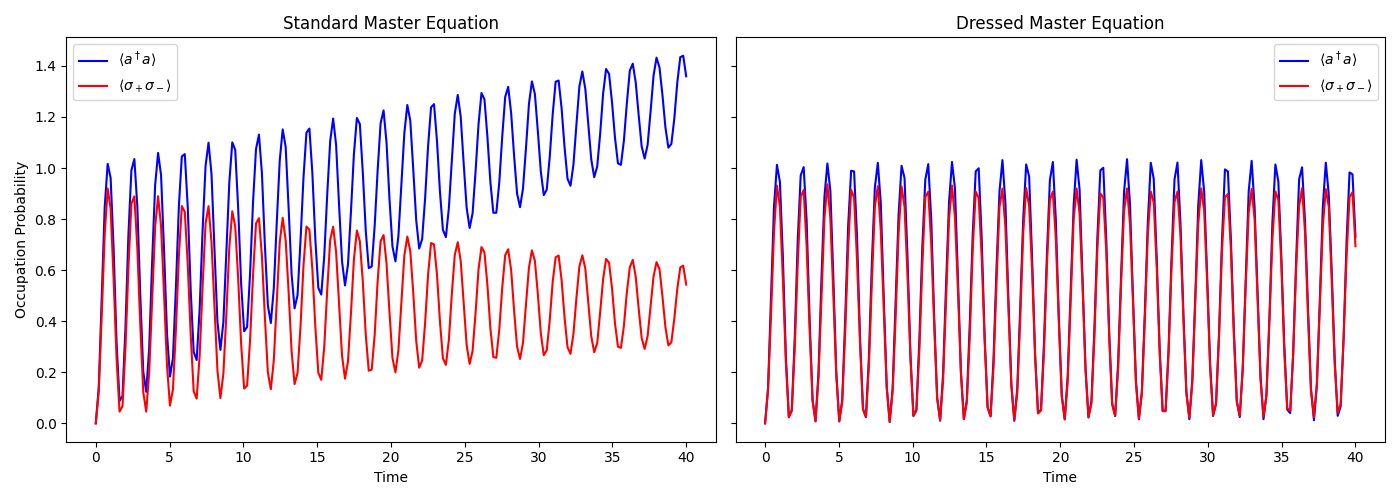
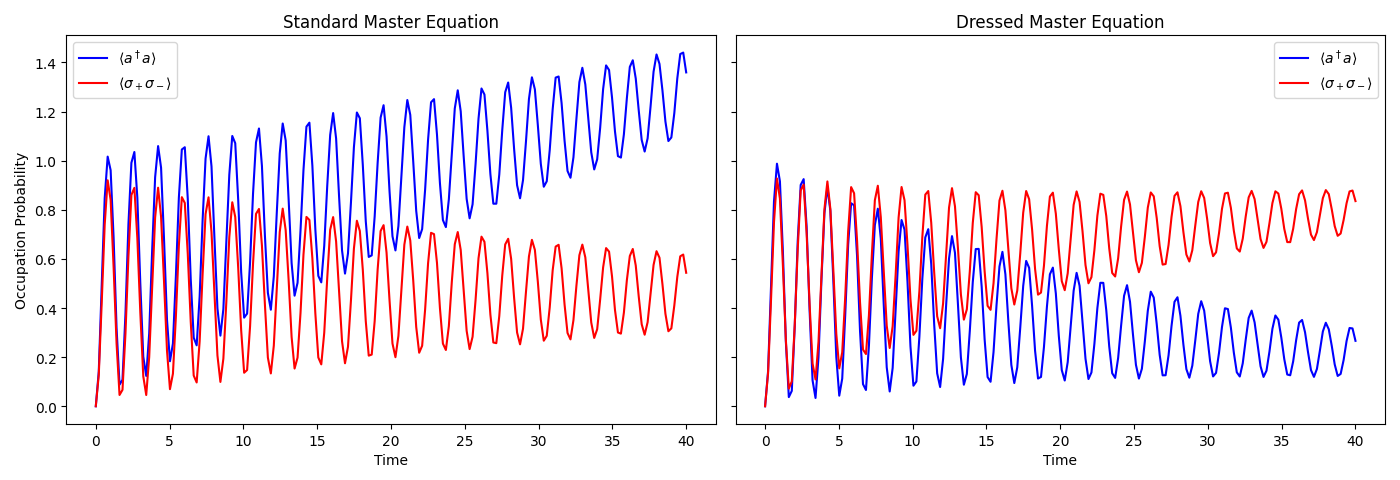
updated DME + started on single qubit and resistor circuit hamiltonian

diff --git a/blias_paper_results.py b/blias_paper_results.py
@@ -45,8 +45,8 @@ c_ops_dressed = []
 
 for i in range(len(evals)):
 
-    phi_i = np.sqrt(gamma_phi(0)/2) * estates[i].dag() * sm * estates[i]
-    c_ops_dressed.append(phi_i * (estates[i] * estates[i].dag()))
+    phi_i = np.sqrt(gamma_phi(0)/2) * estates[i].dag() * sz * estates[i]
+    c_ops_dressed.append(np.sqrt(phi_i) * (estates[i] * estates[i].dag()))
     
     for j in range(len(evals)):
 
@@ -57,34 +57,44 @@ for i in range(len(evals)):
             cav_ij  = estates[i].dag() * (a + a.dag()) * estates[j]
             atom_ij = estates[i].dag() * (sm + sm.dag()) * estates[j]
 
-            c_ops_dressed.append(kappa * abs(cav_ij)**2 * (estates[i] * estates[j].dag()))
-            c_ops_dressed.append(gamma * abs(atom_ij)**2 * (estates[i] * estates[j].dag()))
+            c_ops_dressed.append(np.sqrt(kappa * abs(cav_ij)**2) * (estates[i] * estates[j].dag()))
+            c_ops_dressed.append(np.sqrt(gamma * abs(atom_ij)**2) * (estates[i] * estates[j].dag()))
         
         if evals[j] != evals[i]:
 
-            atom_ij = estates[i].dag() * sm * estates[j]
+            atom_ij = estates[i].dag() * sz * estates[j]
 
-            c_ops_dressed.append(gamma_phi(delta_ij/2) * abs(atom_ij)**2 * (estates[i] * estates[j].dag()))
+            c_ops_dressed.append(np.sqrt(gamma_phi(delta_ij/2) * abs(atom_ij)**2) * (estates[i] * estates[j].dag()))
 
 out_dressed = qt.mesolve(H, psi0, tlist, c_ops_dressed, [a.dag() * a, sm.dag() * sm])
 
 # ====================
 # Plotting Everything
 # ====================
-fig, axes = plt.subplots(1, 2, figsize=(14, 5), sharey=True)
+plt.figure(figsize=(7, 5))
 
-axes[0].plot(tlist, out_std.expect[0], "b", label=r"$\langle a^\dagger a \rangle$")
-axes[0].plot(tlist, out_std.expect[1], "r", label=r"$\langle \sigma_+\sigma_- \rangle$")
-axes[0].set_title("Standard Master Equation")
-axes[0].set_xlabel("Time")
-axes[0].set_ylabel("Occupation Probability")
-axes[0].legend()
+plt.plot(tlist, out_std.expect[0], "b", label=r"$\langle a^\dagger a \rangle$")
+plt.plot(tlist, out_std.expect[1], "r", label=r"$\langle \sigma_+\sigma_- \rangle$")
 
-axes[1].plot(tlist, out_dressed.expect[0], "b", label=r"$\langle a^\dagger a \rangle$")
-axes[1].plot(tlist, out_dressed.expect[1], "r", label=r"$\langle \sigma_+\sigma_- \rangle$")
-axes[1].set_title("Dressed Master Equation")
-axes[1].set_xlabel("Time")
-axes[1].legend()
+plt.title("Standard Master Equation")
+plt.xlabel("Time")
+plt.ylabel("Occupation Probability")
+plt.legend()
 
 plt.tight_layout()
-plt.show()
+plt.savefig("SME.png", dpi=300)
+plt.close()
+
+plt.figure(figsize=(7, 5))
+
+plt.plot(tlist, out_dressed.expect[0], "b", label=r"$\langle a^\dagger a \rangle$")
+plt.plot(tlist, out_dressed.expect[1], "r", label=r"$\langle \sigma_+\sigma_- \rangle$")
+
+plt.title("Dressed Master Equation")
+plt.xlabel("Time")
+plt.ylabel("Occupation Probability")
+plt.legend()
+
+plt.tight_layout()
+plt.savefig("DME.png", dpi=300)
+plt.close()

diff --git a/resistor_hamiltonian.py b/resistor_hamiltonian.py
@@ -1,0 +1,25 @@
+import numpy as np
+import qutip as qt
+
+N = 15  # number of cavity fock states
+wc = 1.0 * 2 * np.pi  # cavity frequency
+wa = 1.0 * 2 * np.pi  # atom frequency
+g = 0.3 * 2 * np.pi  # coupling strength
+kappa = 0.005  # cavity dissipation rate
+gamma = 0.05  # atom dissipation rate
+n_th_a = 0.0  # temperature in frequency units
+use_rwa = False
+
+a  = qt.tensor(qt.destroy(N), qt.qeye(2))
+sm = qt.tensor(qt.qeye(N), qt.destroy(2))
+sz = qt.tensor(qt.qeye(N), qt.sigmaz())
+
+def single_qubit_resistor_hamiltonian():
+
+    C_sum_A = C_A + C_g
+
+    H = (p_A**2)/(2 * C_sum_A) + V(phi_A)
+
+    H = ((hbar * omega_A)/2) * sz_A
+
+    return
